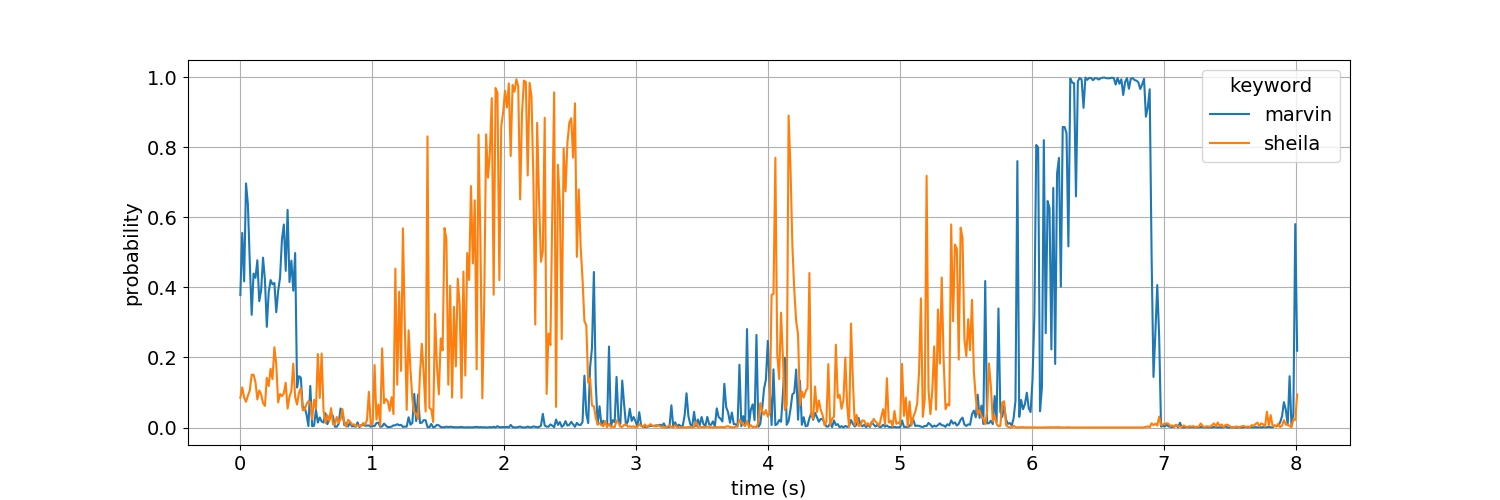
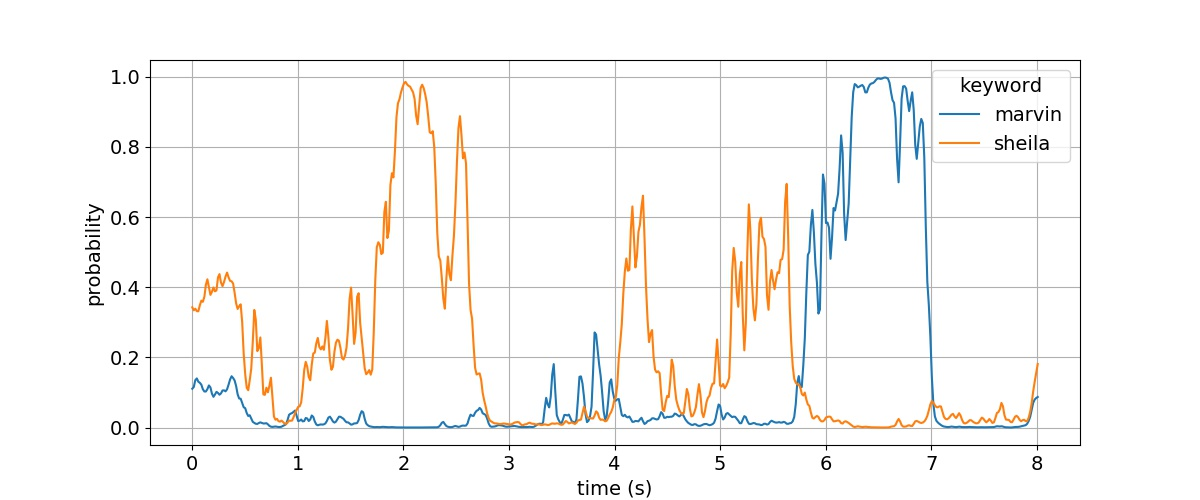
final model

diff --git a/kws/model/treasure_net.py b/kws/model/treasure_net.py
@@ -6,13 +6,15 @@ from .crnn import CRNN
 class TreasureNet(nn.Module):
     def __init__(self, num_keywords=1, time_steps=81, num_mels=40,
                  conv_channels=16, kernel_size=(20, 5), stride=(8, 2),
-                 gru_hidden=256, gru_layers=2, num_heads=8, dropout=0.2):
+                 gru_hidden=256, gru_layers=2, num_heads=8, attention_layers=2, dropout=0.2):
         super(TreasureNet, self).__init__()
         self.encoder = CRNN(time_steps, num_mels, conv_channels, kernel_size, stride,
                             gru_hidden, gru_layers, dropout)
 
         self.layer_norm = nn.LayerNorm(gru_hidden)
-        self.attention = MultiHeadAttention(gru_hidden, num_heads, dropout)
+        self.attention_layers = nn.ModuleList(MultiHeadAttention(gru_hidden, num_heads, dropout)
+                                              for _ in range(attention_layers))
+
         self.classifier = nn.Linear(self.encoder.time_frames * gru_hidden, num_keywords + 1)
 
     def forward(self, inputs, hidden=None):
@@ -22,8 +24,9 @@ class TreasureNet(nn.Module):
         # outputs: (batch_size, time_frames, gru_hidden)
         # hidden: (batch_size, gru_layers, gru_hidden)
 
-        outputs = self.layer_norm(outputs)
-        outputs = self.attention(query=outputs, key=outputs, value=outputs)
+        for attention in self.attention_layers:
+            outputs = self.layer_norm(outputs)
+            outputs = attention(query=outputs, key=outputs, value=outputs)
         # outputs: (batch_size, time_frames, gru_hidden)
 
         outputs = outputs.reshape(outputs.shape[0], -1)
@@ -39,5 +42,5 @@ def treasure_net(params):
     return TreasureNet(len(params['keywords']), params['time_steps'], params['num_mels'],
                        params['conv_channels'], params['kernel_size'], params['stride'],
                        params['gru_hidden'], params['gru_layers'], params['num_heads'],
-                       params['dropout'])
+                       params['attention_layers'], params['dropout'])
 

diff --git a/test.py b/test.py
@@ -4,6 +4,7 @@ import torchvision
 import librosa
 import numpy as np
 import matplotlib.pyplot as plt
+from scipy.ndimage import gaussian_filter1d
 from config import set_params
 from kws.model import treasure_net
 from kws.utils.transforms import SpectogramNormalize
@@ -42,7 +43,6 @@ def test():
 
     # calculate keyword probs
     spec = spectrogramer(waveform).transpose(1, 2)
-    print(spec.shape)
     num_predicts = spec.shape[1] - params['time_steps']
     keyword_probs = np.zeros((num_predicts, len(params['keywords'])))
     hidden = None
@@ -55,12 +55,12 @@ def test():
         keyword_probs[i] = probs[:, 1:]
 
     # plot results
-    plt.figure(figsize=(15, 5))
+    plt.figure(figsize=(12, 5))
     plt.rcParams.update({'font.size': 14})
 
     seconds_steps = np.linspace(0, waveform.shape[1] / params['sample_rate'], num_predicts)
     for i, keyword in enumerate(params['keywords']):
-        plt.plot(seconds_steps, keyword_probs[:, i], label=keyword)
+        plt.plot(seconds_steps, gaussian_filter1d(keyword_probs[:, i], sigma=1), label=keyword)
 
     plt.grid()
     plt.legend(title='keyword')

diff --git a/config.py b/config.py
@@ -19,7 +19,7 @@ def set_params():
         # Checkpoints
         'checkpoint_dir': 'checkpoints/',
         'checkpoint_template': 'checkpoints/treasure_net{}.pt',
-        'model_checkpoint': 'checkpoints/treasure_net16.pt',
+        'model_checkpoint': 'checkpoints/treasure_net20.pt',
         'load_model': True,
 
         # Data processing
@@ -28,7 +28,7 @@ def set_params():
         'audio_seconds': 1.0,
         'sample_rate': 16000,
         'time_steps': 81,
-        'num_mels': 40,
+        'num_mels': 64,
         'keywords': ['marvin', 'sheila'],
 
         # Augmentation params:
@@ -37,14 +37,14 @@ def set_params():
 
         # Optimizer params:
         'lr': 1e-3, 'weight_decay': 1e-3,
-        'batch_size': 2048, 'num_epochs': 10,
+        'batch_size': 512, 'num_epochs': 20,
         'start_epoch': 1,
 
         # TreasureNet params:
         'conv_channels': 32, 'kernel_size': (8, 4),
         'stride': (2, 2), 'gru_hidden': 256,
         'gru_layers': 2, 'num_heads': 8,
-        'dropout': 0.3,
+        'attention_layers': 1, 'dropout': 0.3,
     }
 
     return params

diff --git a/main.py b/main.py
@@ -46,7 +46,7 @@ def main():
     train_loader = torch.utils.data.DataLoader(train_dataset, batch_size=params['batch_size'],
                                                num_workers=params['num_workers'], shuffle=True)
     valid_loader = torch.utils.data.DataLoader(valid_dataset, batch_size=params['batch_size'],
-                                               num_workers=params['num_workers'])
+                                               num_workers=params['num_workers'], shuffle=True)
 
     if params['verbose']:
         print('Data loaders prepared')
